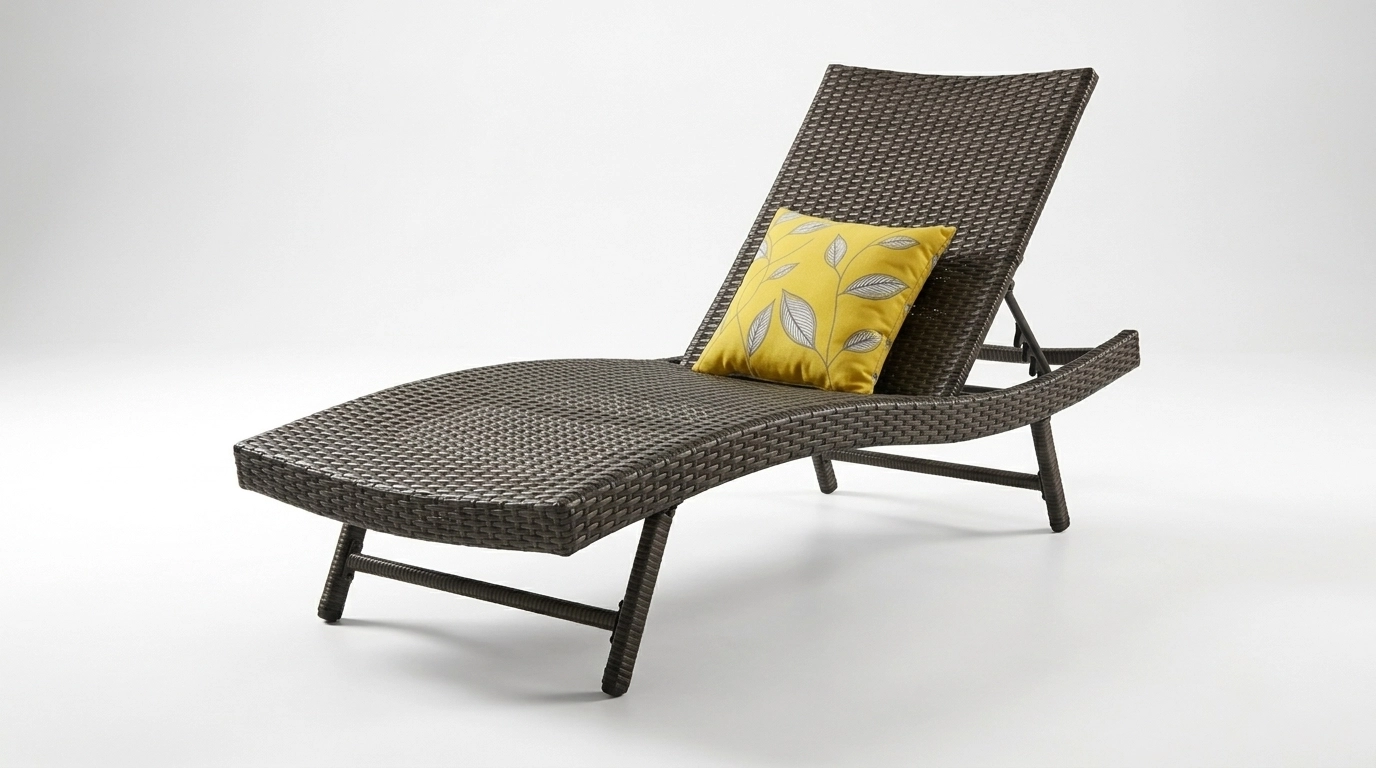
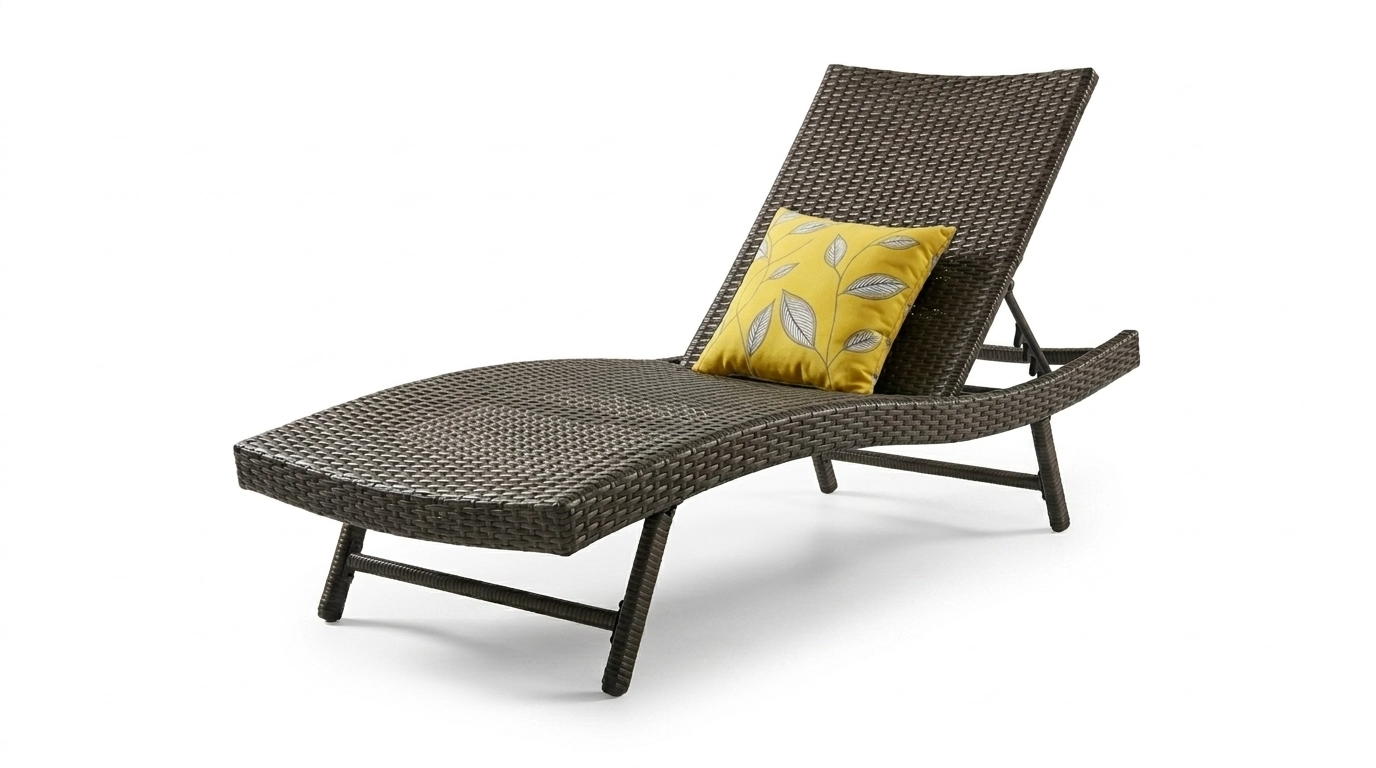
feat: update poolside loungers philosophy bento images with WebP versions

diff --git a/frontend/src/data/productConfigs.js b/frontend/src/data/productConfigs.js
@@ -2676,7 +2676,7 @@ export const productConfigs = {
                     icon: "deck",
                     title: "Ultimate Relaxation & Comfort",
                     desc: "Ergonomically designed with plush cushions and reclining options, they provide the perfect spot to unwind by the pool.",
-                    image: "/products/all_white/7-1.webp_202606080031.jpeg"
+                    image: "/assets/products/poolside-loungers/philosophy-comfort.webp"
                 },
                 {
                     num: "02.",
@@ -2697,14 +2697,14 @@ export const productConfigs = {
                     title: "Low Maintenance",
                     desc: "Easy-to-clean surfaces and fade-resistant materials require minimal upkeep, even in high-traffic pool environments.",
                     tags: ["UV RESISTANT", "RUST PROOF"],
-                    image: "/products/all_white/7-3.webp_202606080031.jpeg"
+                    image: "/assets/products/poolside-loungers/philosophy-maintenance.webp"
                 },
                 {
                     num: "05.",
                     icon: "shield",
                     title: "Durability & Longevity",
                     desc: "Strong construction ensures years of reliable performance in demanding outdoor and poolside conditions.",
-                    image: "/products/all_white/7.webp_202606080031.jpeg"
+                    image: "/assets/products/poolside-loungers/philosophy-durability.webp"
                 }
             ]
         },